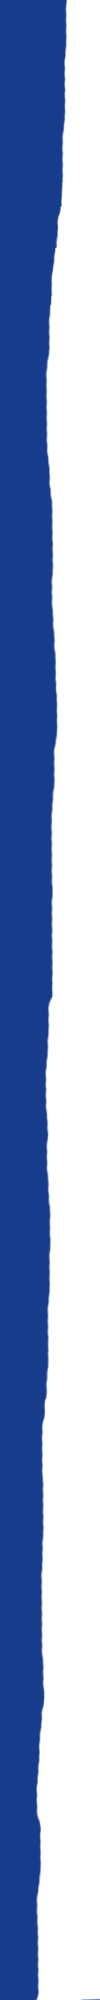
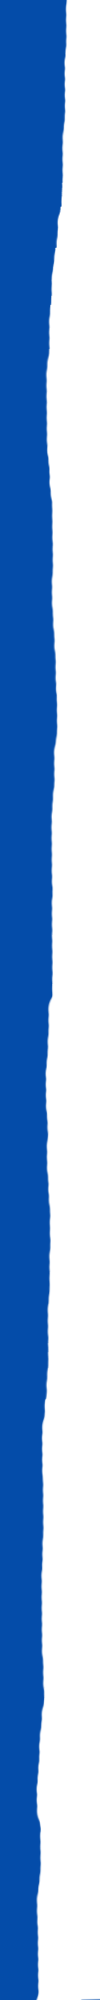
Tune colors again

diff --git a/app/styles/layout/_layout.scss b/app/styles/layout/_layout.scss
@@ -1,6 +1,10 @@
 html {
+	@include negative-text;
 	min-height: 100%;
-	background-color: $bg-color;
+	color: $text-color;
+	background-color: darken($bg-color, 10%);
+	background-color: darken($bg-color, 30%);
+	background-color: $dark-green;
 	background-repeat: no-repeat;
 	background-size: cover;
 	// background-image: url(images/bg-noise3.jpg);
@@ -12,7 +16,6 @@ html {
 	// background-image: url(images/moods/texture.jpg);
 	// background-size: cover;
 	// background-image: url(images/moods/wildtextures-african-inspired-orange-glossy-tiles-seamless-pattern.jpg);
-	color: $white;
 }
 body {
 	overflow: hidden;
@@ -105,5 +108,41 @@ img.alignright {
 }
 
 .u-darkBg {
+	@include negative-text;
 	background-color: hsla(0, 0%, 0%, 0.5);
+	background-color: $nice-slated-red;
+}
+
+.TeaserBox {
+	text-align: center;
+	a {
+		font-size: $font-20;
+		@extend %font-bold;
+		text-transform: uppercase;
+		letter-spacing: 0.1em;
+		display: block;
+		padding: 0.7em 1em 0.95em;
+		line-height: 1;
+	}
+}
+.TeaserBox--alive {
+	background-color: #08092D;
+	background-image: url(images/moods/bluego.gif);
+	background-repeat: repeat;
+}
+
+.LatestNews {
+	padding: rem($space);
+	@media (min-width: $layout-m) {
+		padding: rem($space*2);
+	}
+	h3 {
+		margin-bottom: 1rem;
+	}
+}
+.LatestNews-title {
+	max-width: 30rem;
+	margin-left: auto;
+	margin-right: auto;
+	text-align: center;
 }

diff --git a/app/styles/components/_index.scss b/app/styles/components/_index.scss
@@ -48,58 +48,24 @@
 		// }
 	}
 }
+
 .Index-artists {
 	@extend %font-bold;
+	@include negative-text;
 	display: block;
 	line-height: 1;
 	padding: 0.75em 0;
 	font-size: $font-20;
 	background: $teal;
 	color: $white;
+	a {
+		color: $white;
+	}
 }
+
 .Index .GalleryCounter {
 	position: absolute;
 	right: rem($space);
 	bottom: rem($space);
 	opacity: 0.8;
-}
-.TeaserBox {
-	text-align: center;
-	a {
-		font-size: $font-20;
-		@extend %font-bold;
-		text-transform: uppercase;
-		letter-spacing: 0.1em;
-		display: block;
-		padding: 0.7em 1em 0.95em;
-		line-height: 1;
-	}
-
-	// + .TeaserBox {
-	// 	background-image: url(images/moods/bg-poster-crop.jpg);
-
-	// 	+ .TeaserBox {
-	// 		background-image: url(images/moods/texture.jpg);
-	// 		background-size: cover;
-	// 	}
-	// }
-}
-.TeaserBox--alive {
-	background-color: #08092D;
-	background-image: url(images/moods/bluego.gif);
-	background-repeat: repeat;
-}
-.LatestNews {
-	padding: rem($space);
-	@media (min-width: $layout-m) {
-		padding: rem($space*2);
-	}
-	h3 {
-		margin-bottom: 1rem;
-	}
-}
-.LatestNews-title {
-	max-width: 90%;
-	margin-left: auto;
-	margin-right: auto;
 }

diff --git a/app/styles/base/_config.scss b/app/styles/base/_config.scss
@@ -9,25 +9,31 @@ $silk: hsl(48, 70%, 95%);
 $gold: hsl(43, 92%, 62%);
 $orange: hsl(21, 100%, 45%);
 $green: hsl(91, 71%, 35%);
-$dark-green: #153C2B;
-$yellow: #FFCC33;
-$teal: #17788A;
+$dark-green: hsl(154, 48%, 16%);
+$yellow: hsl(45, 100%, 60%);
+$teal: hsl(189, 71%, 32%);
 $red: hsl(0, 100%, 50%);
-$gray: #BCB4B4;
-$black: hsl(0, 0%, 5%);
-$white: hsl(0, 0%, 98%);
-$whitewhite: #FFFFFF;
+$nice-slated-red: hsl(7, 56%, 39%);
 
-$blue: hsl(221, 72%, 32%);
-$sand: hsl(53, 36%, 90%);
-$sand2: hsl(334, 10%, 92%);
+$whitewhite: hsl(0, 0%, 100%);
+$white: hsl(0, 0%, 98%);
+$gray: hsl(0, 6%, 72%);
+$grey: hsl(0, 0%, 62%);//hsl(0, 0%, 84%);
+$darkgrey: hsl(0, 0%, 30%);
+$black: hsl(0, 0%, 5%);
+
+// $blueold: hsl(221, 72%, 32%);
+$blue: hsl(214, 95%, 34%);
+// $sandold: hsl(53, 36%, 90%);
+// $sand: hsl(51, 40%, 90%);
+$sand: hsl(51, 31%, 92%);
+$sand-stone: hsl(334, 10%, 92%);
 
 // Color definitions
 $primary-color: $blue;
-$bg-color: $dark-green;
-$grey: hsl(0, 0%, 62%);//hsl(0, 0%, 84%);
-$darkgrey: hsl(0, 0%, 30%);
-$text-color: hsl(0, 0%, 100%);
+$bg-color: $sand;
+$text-color: $white;
+
 
 // Layout
 $space: 20px;

diff --git a/app/styles/components/_page.scss b/app/styles/components/_page.scss
@@ -11,7 +11,8 @@
 
 	// background-color: $gray;
 	// background-image: linear-gradient(to right, hsl(16, 6%, 79%) 70%, hsl(0, 6%, 72%));
-	background-color: $sand2;
+	background-color: $sand;
+	// background-color: $sand-stone;
 	// background-image: linear-gradient(to right, $sand 70%, darken($sand, 5%));
 	color: $black;
 
@@ -21,8 +22,7 @@
 		display: block;
 		width: 40px;
 		height: 100%;
-		// background: url(images/border-page.png) repeat-y top right;
-		background: url(images/border-page2.png) repeat-y top right;
+		background: url(images/border-page3.png) repeat-y top right;
 		position: absolute;
 		top: 0;
 		right: -40px;

diff --git a/app/styles/components/_nav.scss b/app/styles/components/_nav.scss
@@ -2,6 +2,7 @@
 	display: flex;
 	flex-flow: column nowrap;
 }
+
 .Nav a {
 	@extend %font-bold;
 	font-size: $font-20;
@@ -9,17 +10,22 @@
 	padding-top: 0.25em;
 	padding-bottom: 0.25em;
 	transition: color 150ms, padding 250ms 100ms $easing;
+	@include negative-text;
+
 	@media (min-height: 800px) {
 		padding-top: 0.3em;
 		padding-bottom: 0.3em;
 	}
+
 	&.is-active {
 		padding-left: rem($space*2.75);
 		color: $yellow;
 	}
 }
+
 .Nav small {
 	margin-left: 0.6rem;
+
 	a {
 		@extend %font-regular;
 		font-size: 1rem;

diff --git a/app/styles/base/global.scss b/app/styles/base/global.scss
@@ -4,7 +4,6 @@
 
 html {
 	@extend %font-regular;
-	@include negative-text;
 	line-height: $base-line-height-unitless;
 
 	// Enable kerning and ligatures everywhere
@@ -13,6 +12,9 @@ html {
 	font-size: 15px;
 	@media (min-width: $layout-m) {
 		font-size: $base-font-size;
+	}
+	@media (min-width: $layout-l) {
+		font-size: $base-font-size + 1;
 	}
 	@media (min-width: $layout-xl) {
 		font-size: $base-font-size + 2;
@@ -73,6 +75,7 @@ a:visited {
 		color: $white;
 	}
 }
+
 time,
 .Muted {
 	font-size: $font-14;

diff --git a/app/styles/components/_teaser.scss b/app/styles/components/_teaser.scss
@@ -24,11 +24,9 @@ $masonry-gutter: 1.5rem;
 }
 
 .Teaser {
+	@include negative-text;
 	position: relative;
 
-	a {
-		transition: box-shadow 300ms $easing;
-	}
 	a:hover &,
 	a:active & {
 		box-shadow: 0px 0px 2rem 1rem rgba(255, 255, 255, 0.1);
